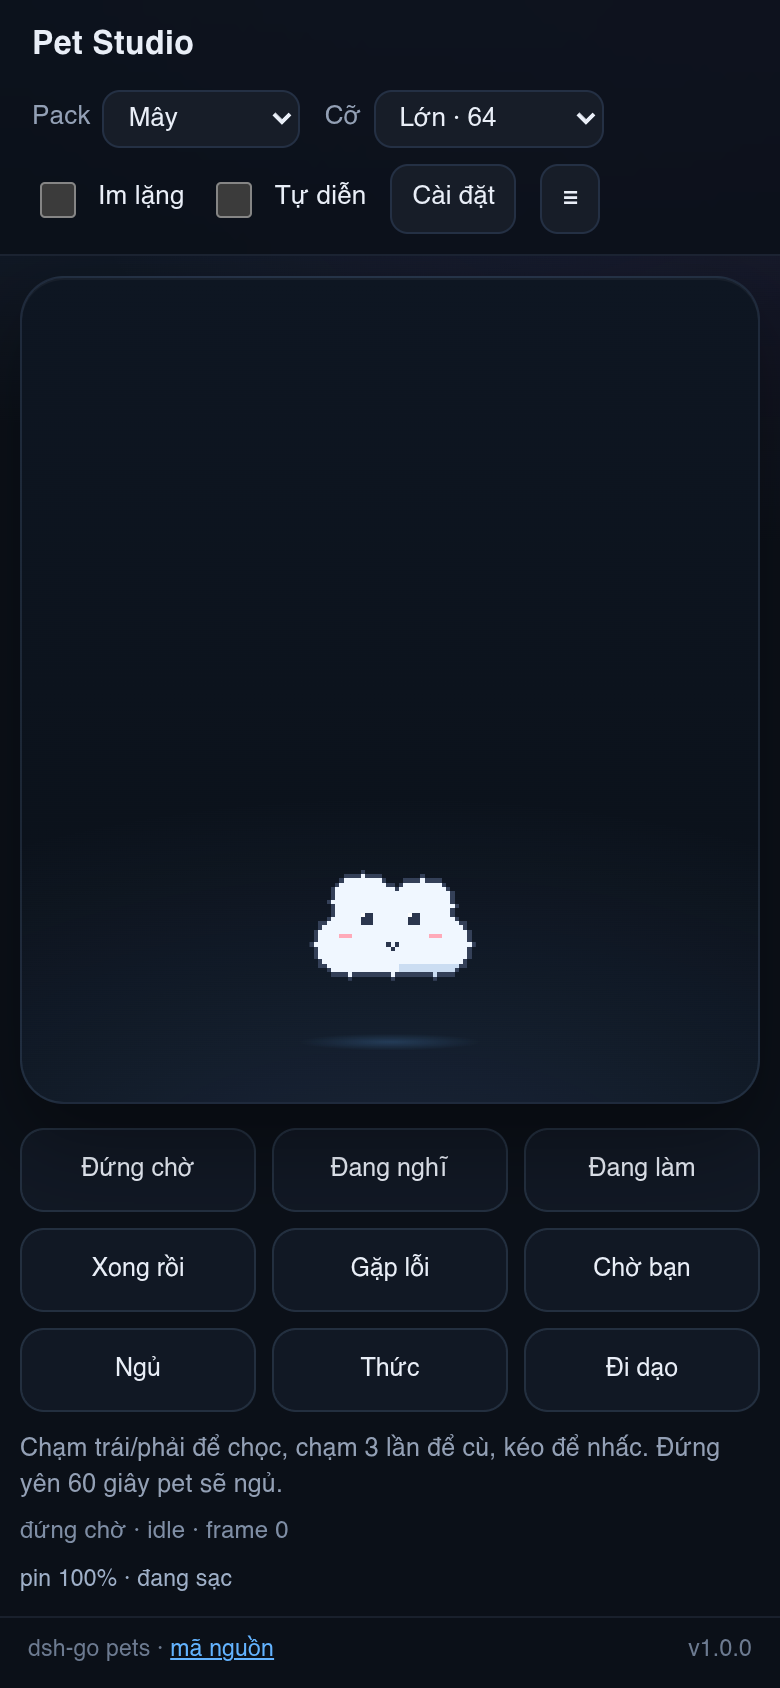
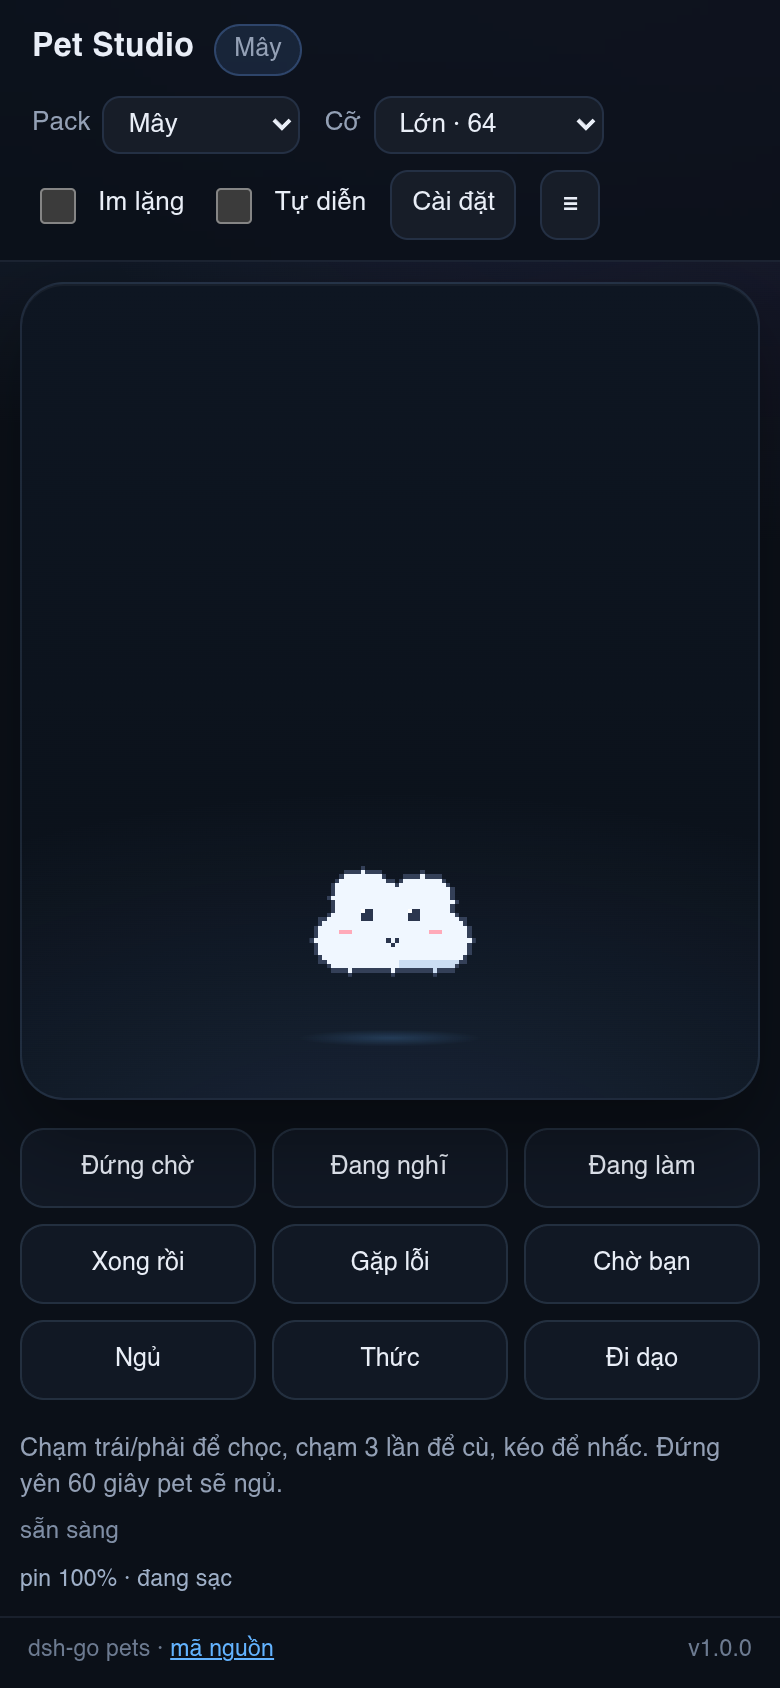
UI 4.28.0: chip ten pet, header sticky, changelog

diff --git a/CHANGELOG.md b/CHANGELOG.md
@@ -1,5 +1,10 @@
 # Thay đổi gần đây
 
+## 4.28.0
+- Header sticky, chip tên pet cạnh logo, bỏ dòng debug frame.
+- Nút trạng thái 3x3 gọn hơn, giữ thấy đủ 9 trạng thái.
+- Sửa lỗi chip tên pet bị ẩn trên mobile.
+
 ## 4.27.0
 - AI chào khi mở app sau 2 giờ (tuỳ chọn), dựa trên giờ + trạng thái + ký ức.
 
